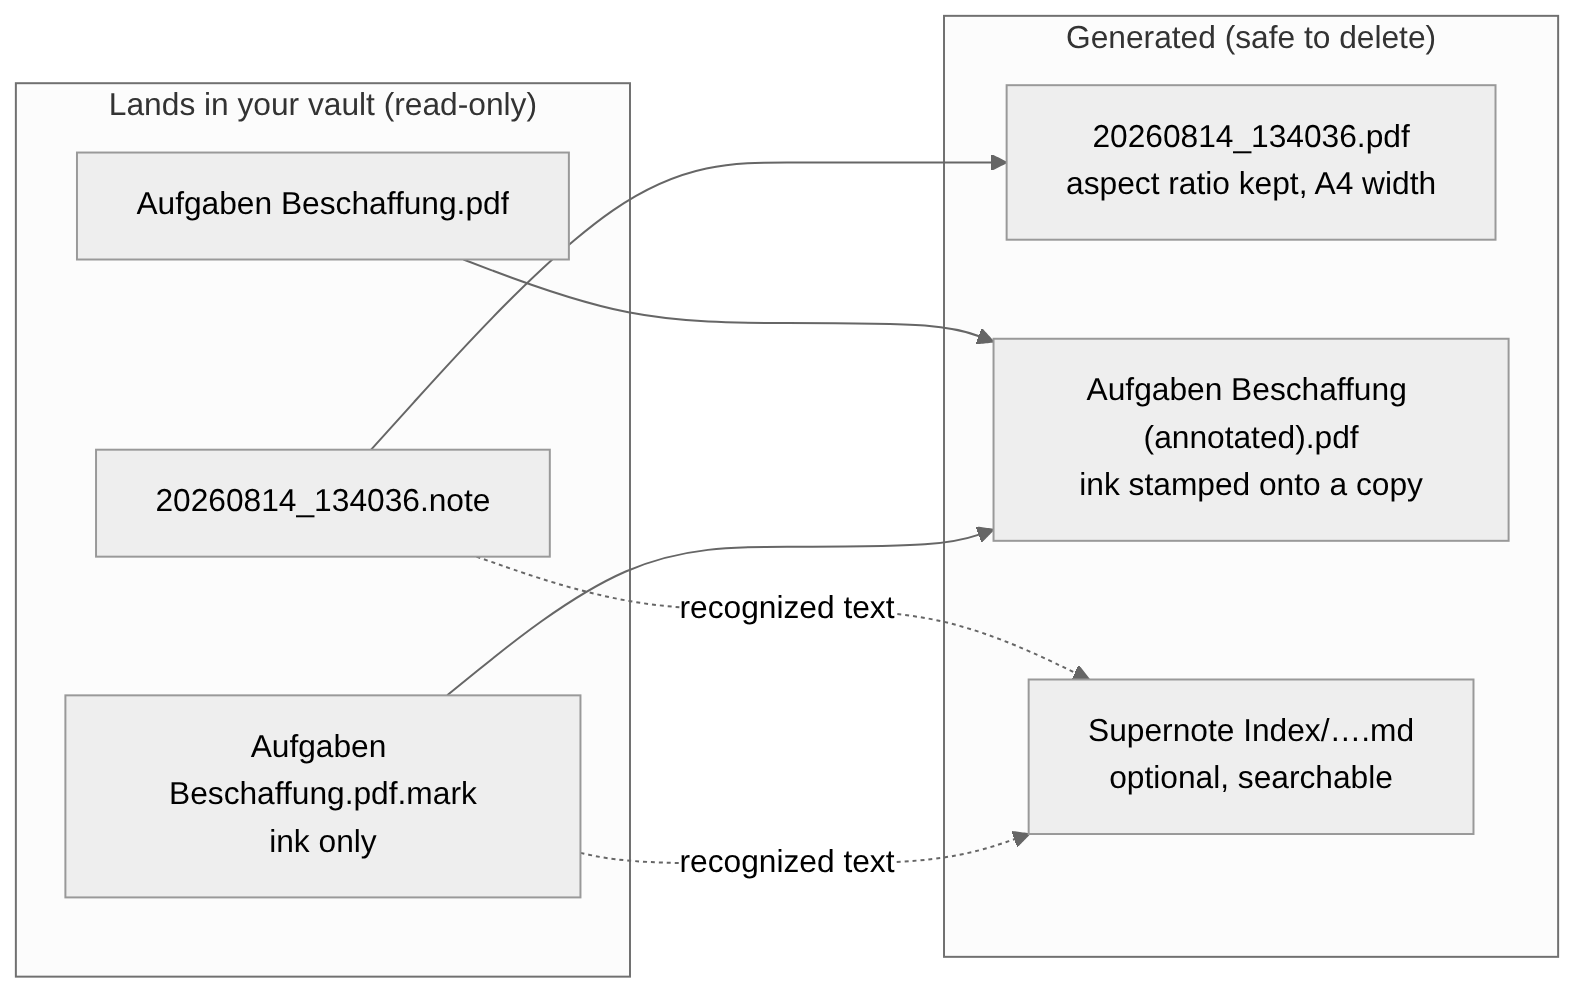
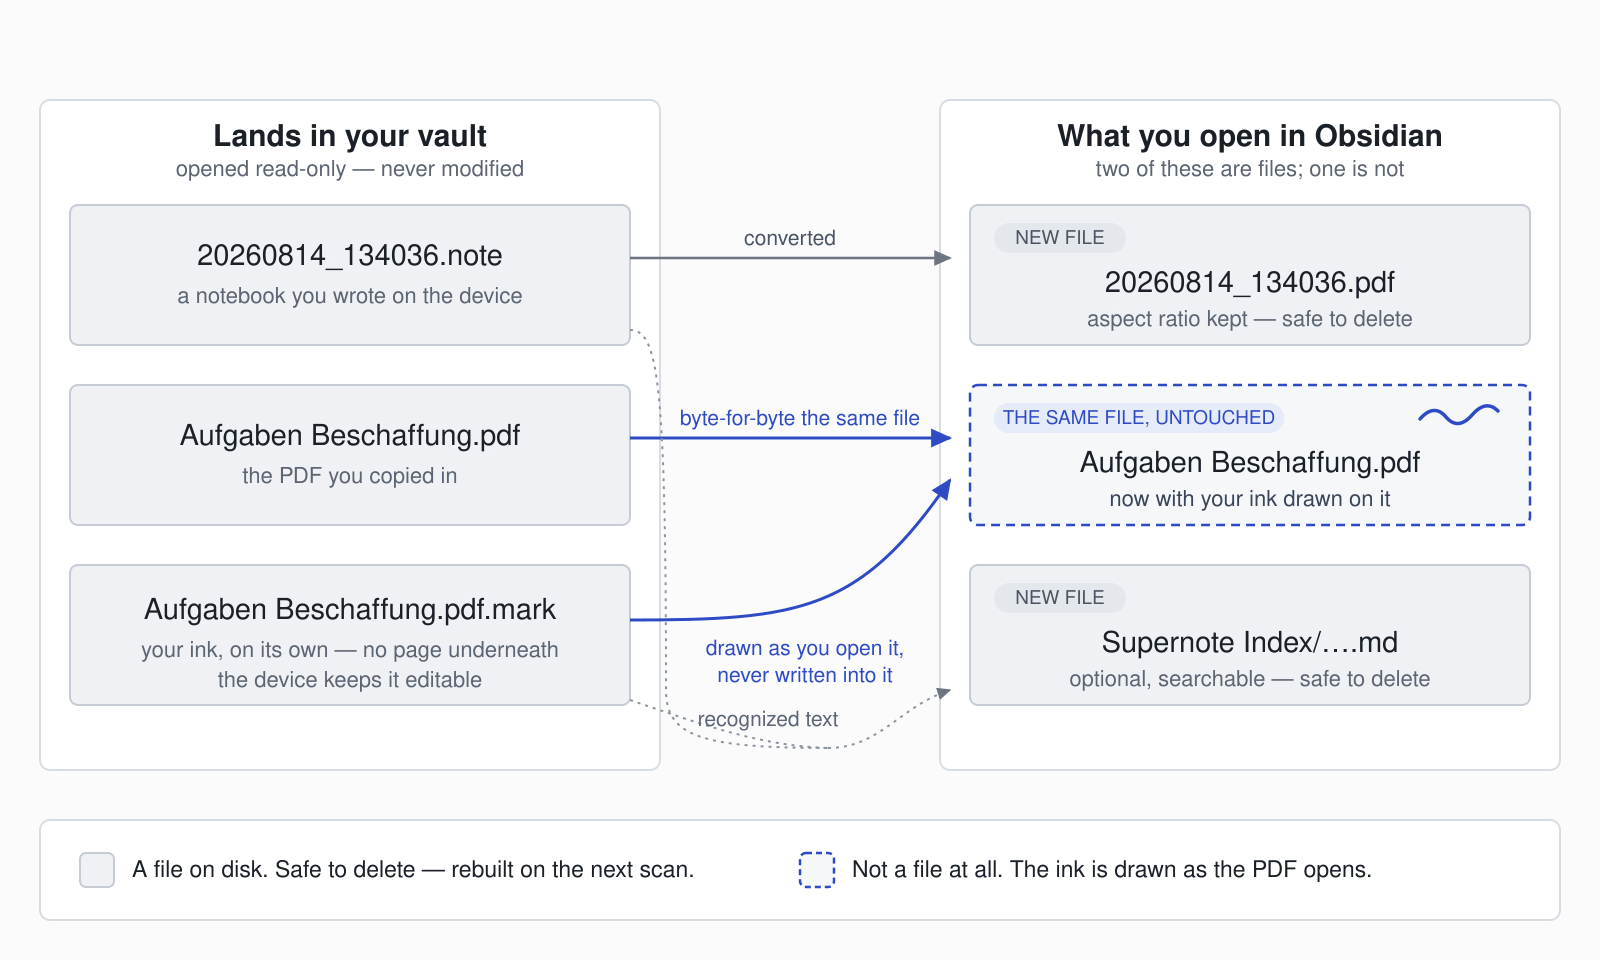
Redraw the pipeline diagram for the one-PDF model
The old one showed the ink landing in a second "(annotated).pdf", which has
not been true since 1.1.0 and was the last place the docs still claimed it.

The thing the picture has to carry is that one of the three outputs is not an
output: the PDF you copied in is the same file you open, unchanged, with the
ink drawn over it. That is marked with a badge and a dashed border rather than
by colour alone, and the legend spells out the distinction, since "safe to
delete" means something quite different for a file that was never written.

Authored as SVG so it can be edited as text; the committed PNG is rendered
from it, palettised to 128 colours because it is flat art — a third of the
size of the file it replaces at 0.3% RMSE.

Claude-Session: https://claude.ai/code/session_01NT9usXazSzMphrvTDuzDvY

diff --git a/README.md b/README.md
@@ -18,10 +18,7 @@ View your Supernote notes and annotated PDFs seamlessly as converted PDFs. Stand
 Sync your vault via WebDAV on Supernote, write on the device, and the plugin turns what lands there into
 files Obsidian can actually open.
 
-![What goes in and what comes out: files that land in your vault read-only — a .note notebook, an original PDF and its .pdf.mark ink layer — become a PDF converted from the notebook, the original PDF now showing your ink, and optional searchable Markdown from recognized text](assets/images/pipeline.png)
-
-> ℹ These two images still show the older layout, where the ink went into a second
-> `(annotated).pdf`. Since 1.1.0 there is one PDF, as described below.
+![What goes in and what comes out. Three files land in your vault read-only and are never modified: a .note notebook, a PDF you copied in, and its .pdf.mark ink layer. You open three things: a new PDF converted from the notebook, that same PDF you copied in — byte-for-byte unchanged, now with your ink drawn on it as it opens — and an optional searchable Markdown index built from recognized handwriting](assets/images/pipeline.png)
 
 ### 🖼 Example
 
@@ -31,6 +28,9 @@ The same thing in a real vault: `20260814_134036.pdf` was converted from a noteb
 Beschaffung.pdf` is the original you copied in — open it and your ink is on it, though the file
 itself has not changed. The `.note` and `.mark` files sit right beside them on disk; you do not see
 them because `styles.css` hides both from the file explorer.
+
+> ℹ This screenshot predates 1.1.0, so it still shows a third file, `Aufgaben Beschaffung
+> (annotated).pdf`. That copy is no longer made.
 
 **Why you never see the `.mark` on the device.** The Supernote stores your ink in a separate file
 beside the PDF and draws the two together as you read, so its file browser shows only one item and
@@ -212,6 +212,13 @@ npm test             # every suite
 ```
 
 ❗ **Never hand-edit `main.js`.** It is generated, and your changes go on the next build.
+
+The pipeline diagram is the same deal: edit `assets/images/pipeline.svg`, never the PNG beside it.
+
+```bash
+cd assets/images
+magick -density 96 -background white pipeline.svg -colors 128 -strip PNG8:pipeline.png
+```
 
 The tests that need real Supernote files read them from a directory you name, since handwriting
 does not belong in a public repo. Point it at anything containing `.note`/`.mark` files:
